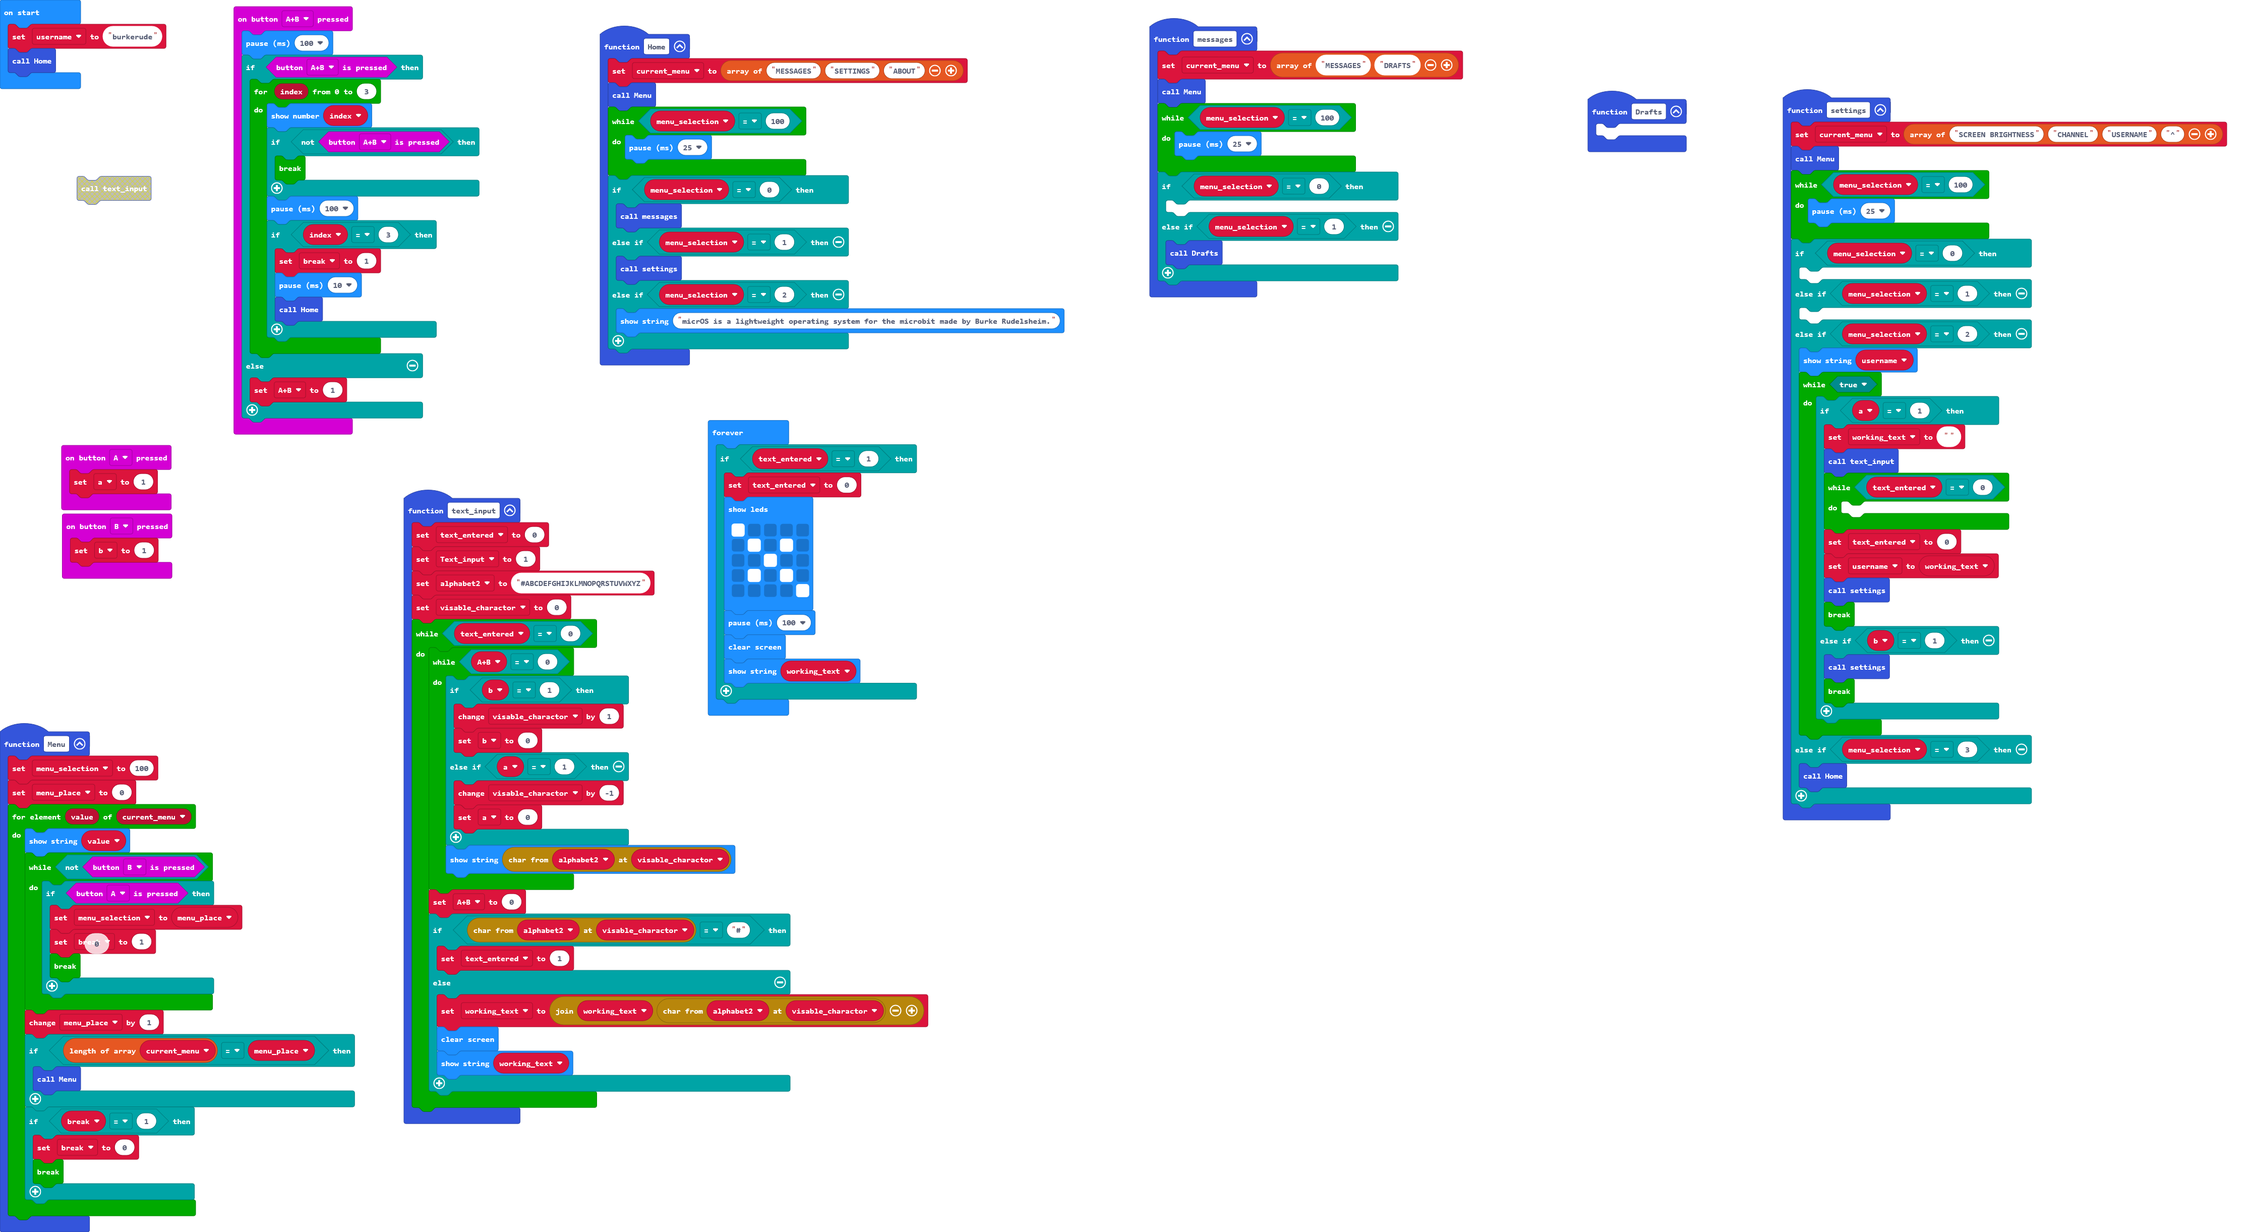
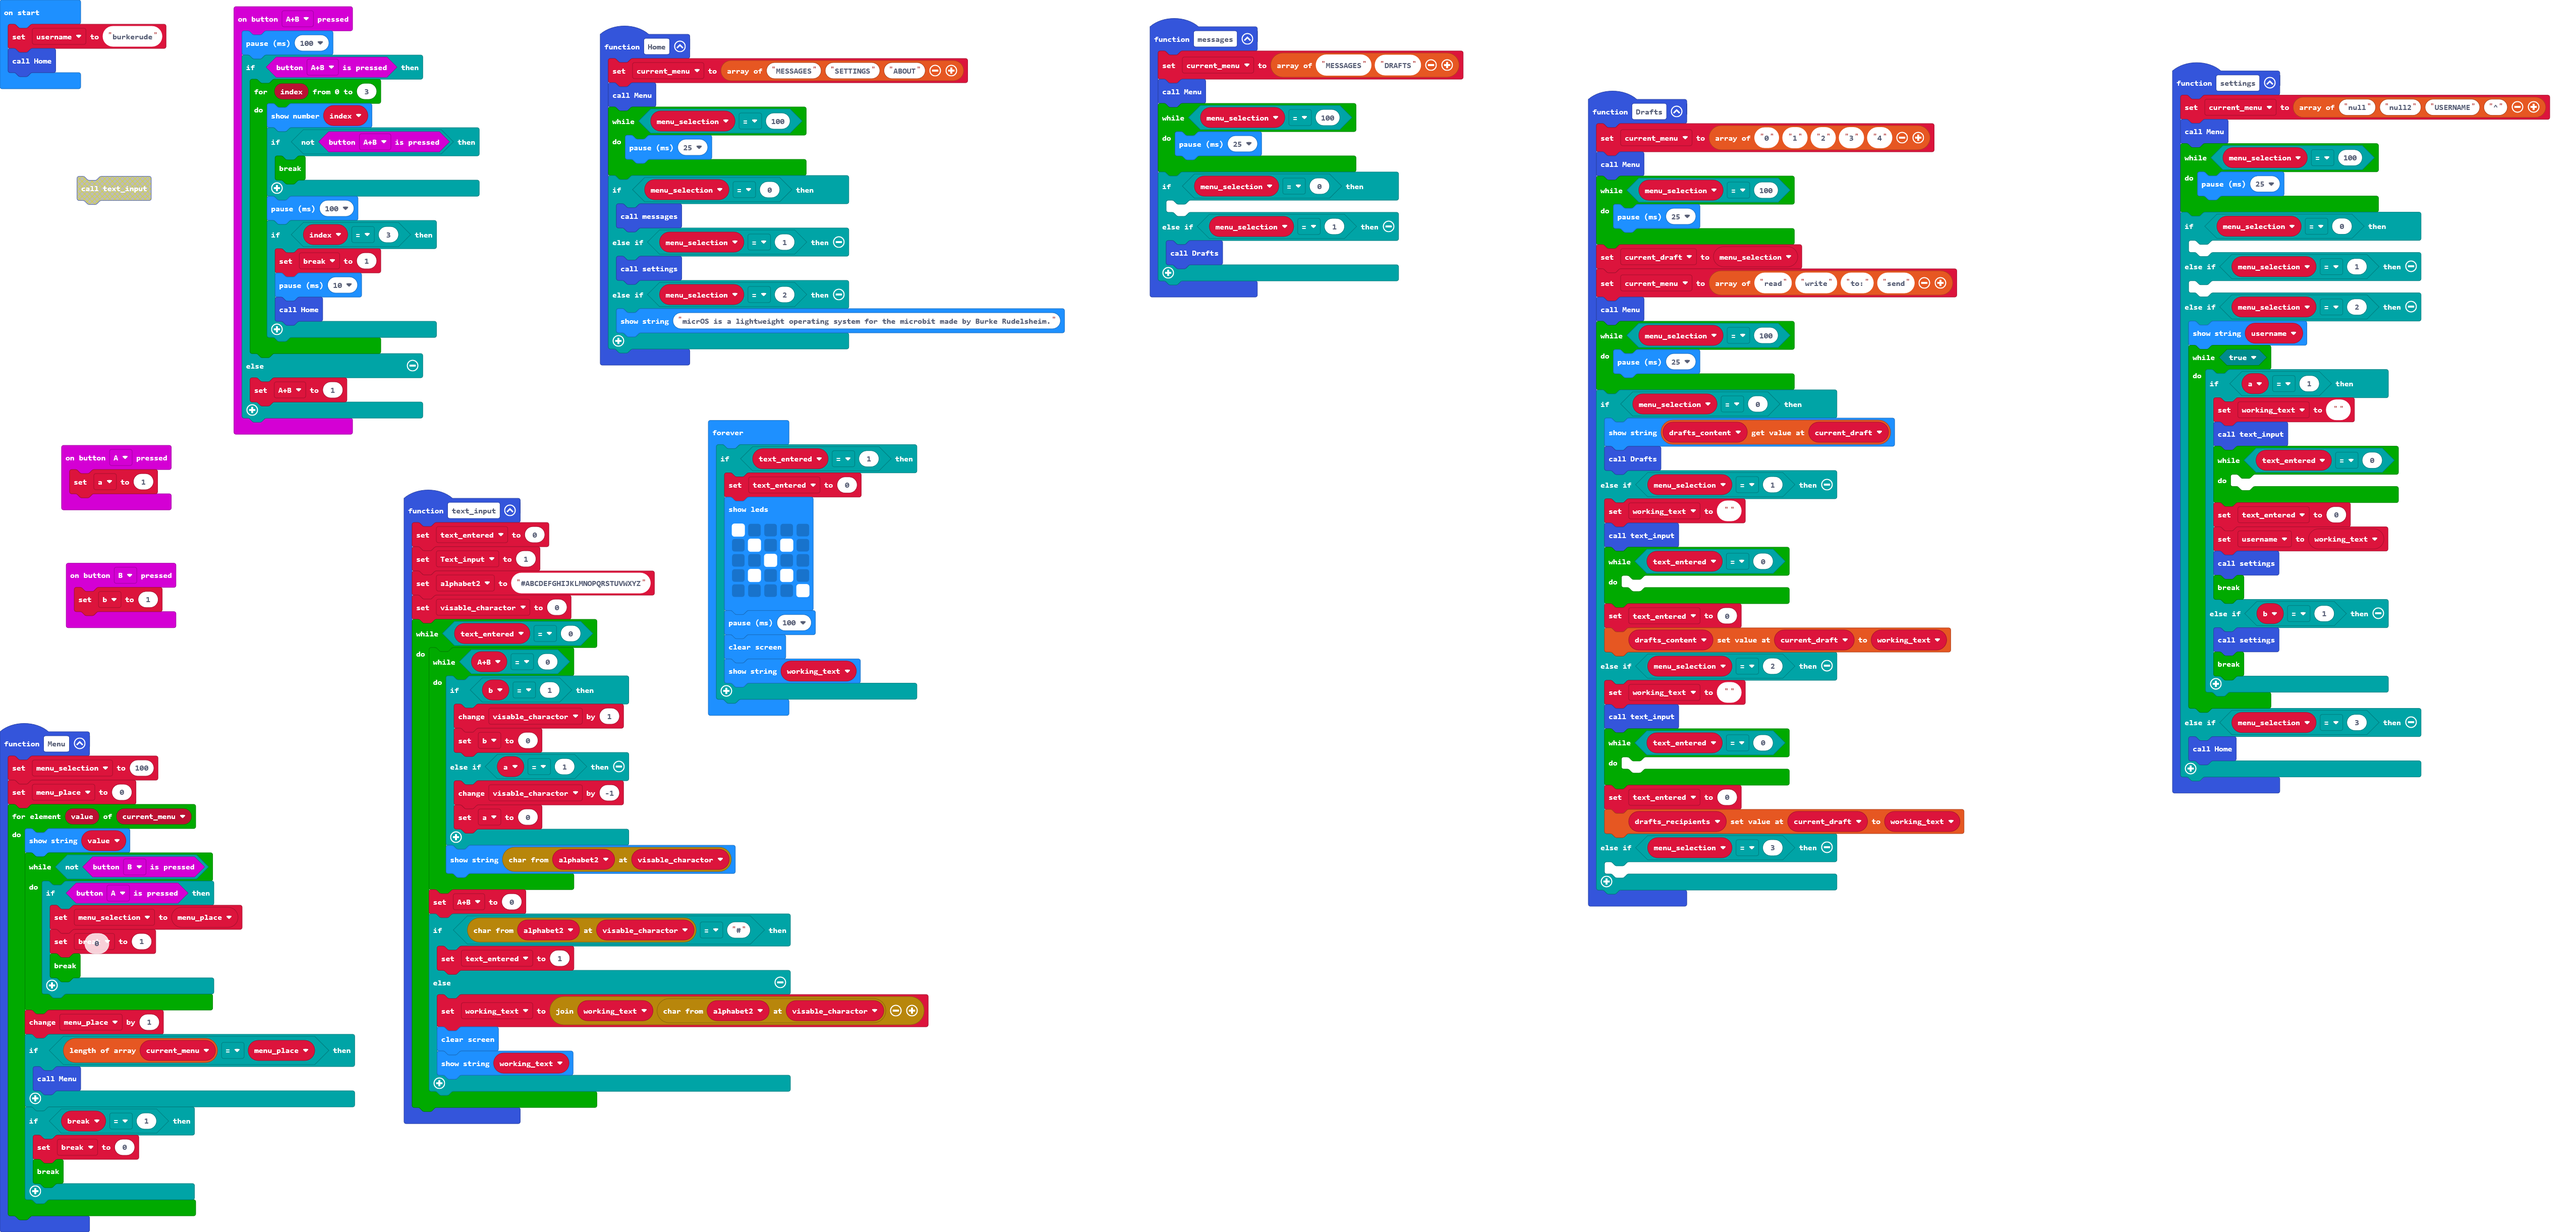
Update main.blocks, main.ts

diff --git a/main.ts b/main.ts
@@ -16,7 +16,7 @@ function Home () {
     }
 }
 function settings () {
-    current_menu = ["SCREEN BRIGHTNESS", "CHANNEL", "USERNAME", "^"]
+    current_menu = ["null", "null2", "USERNAME", "^"]
     Menu()
     while (menu_selection == 100) {
         basic.pause(25)
@@ -48,7 +48,41 @@ function settings () {
     }
 }
 function Drafts () {
-	
+    let drafts_content: string[] = []
+    current_menu = ["0", "1", "2", "3", "4"]
+    Menu()
+    while (menu_selection == 100) {
+        basic.pause(25)
+    }
+    current_draft = menu_selection
+    current_menu = ["read", "write", "to:", "send"]
+    Menu()
+    while (menu_selection == 100) {
+        basic.pause(25)
+    }
+    if (menu_selection == 0) {
+        basic.showString("" + (drafts_content[current_draft]))
+        Drafts()
+    } else if (menu_selection == 1) {
+        working_text = ""
+        text_input()
+        while (text_entered == 0) {
+        	
+        }
+        text_entered = 0
+        drafts_content[current_draft] = working_text
+    } else if (menu_selection == 2) {
+        let drafts_recipients: string[] = []
+        working_text = ""
+        text_input()
+        while (text_entered == 0) {
+        	
+        }
+        text_entered = 0
+        drafts_recipients[current_draft] = working_text
+    } else if (menu_selection == 3) {
+    	
+    }
 }
 input.onButtonPressed(Button.AB, function () {
     basic.pause(100)
@@ -138,6 +172,7 @@ let Text_input = 0
 let menu_place = 0
 let AB = 0
 let _break = 0
+let current_draft = 0
 let text_entered = 0
 let working_text = ""
 let b = 0
